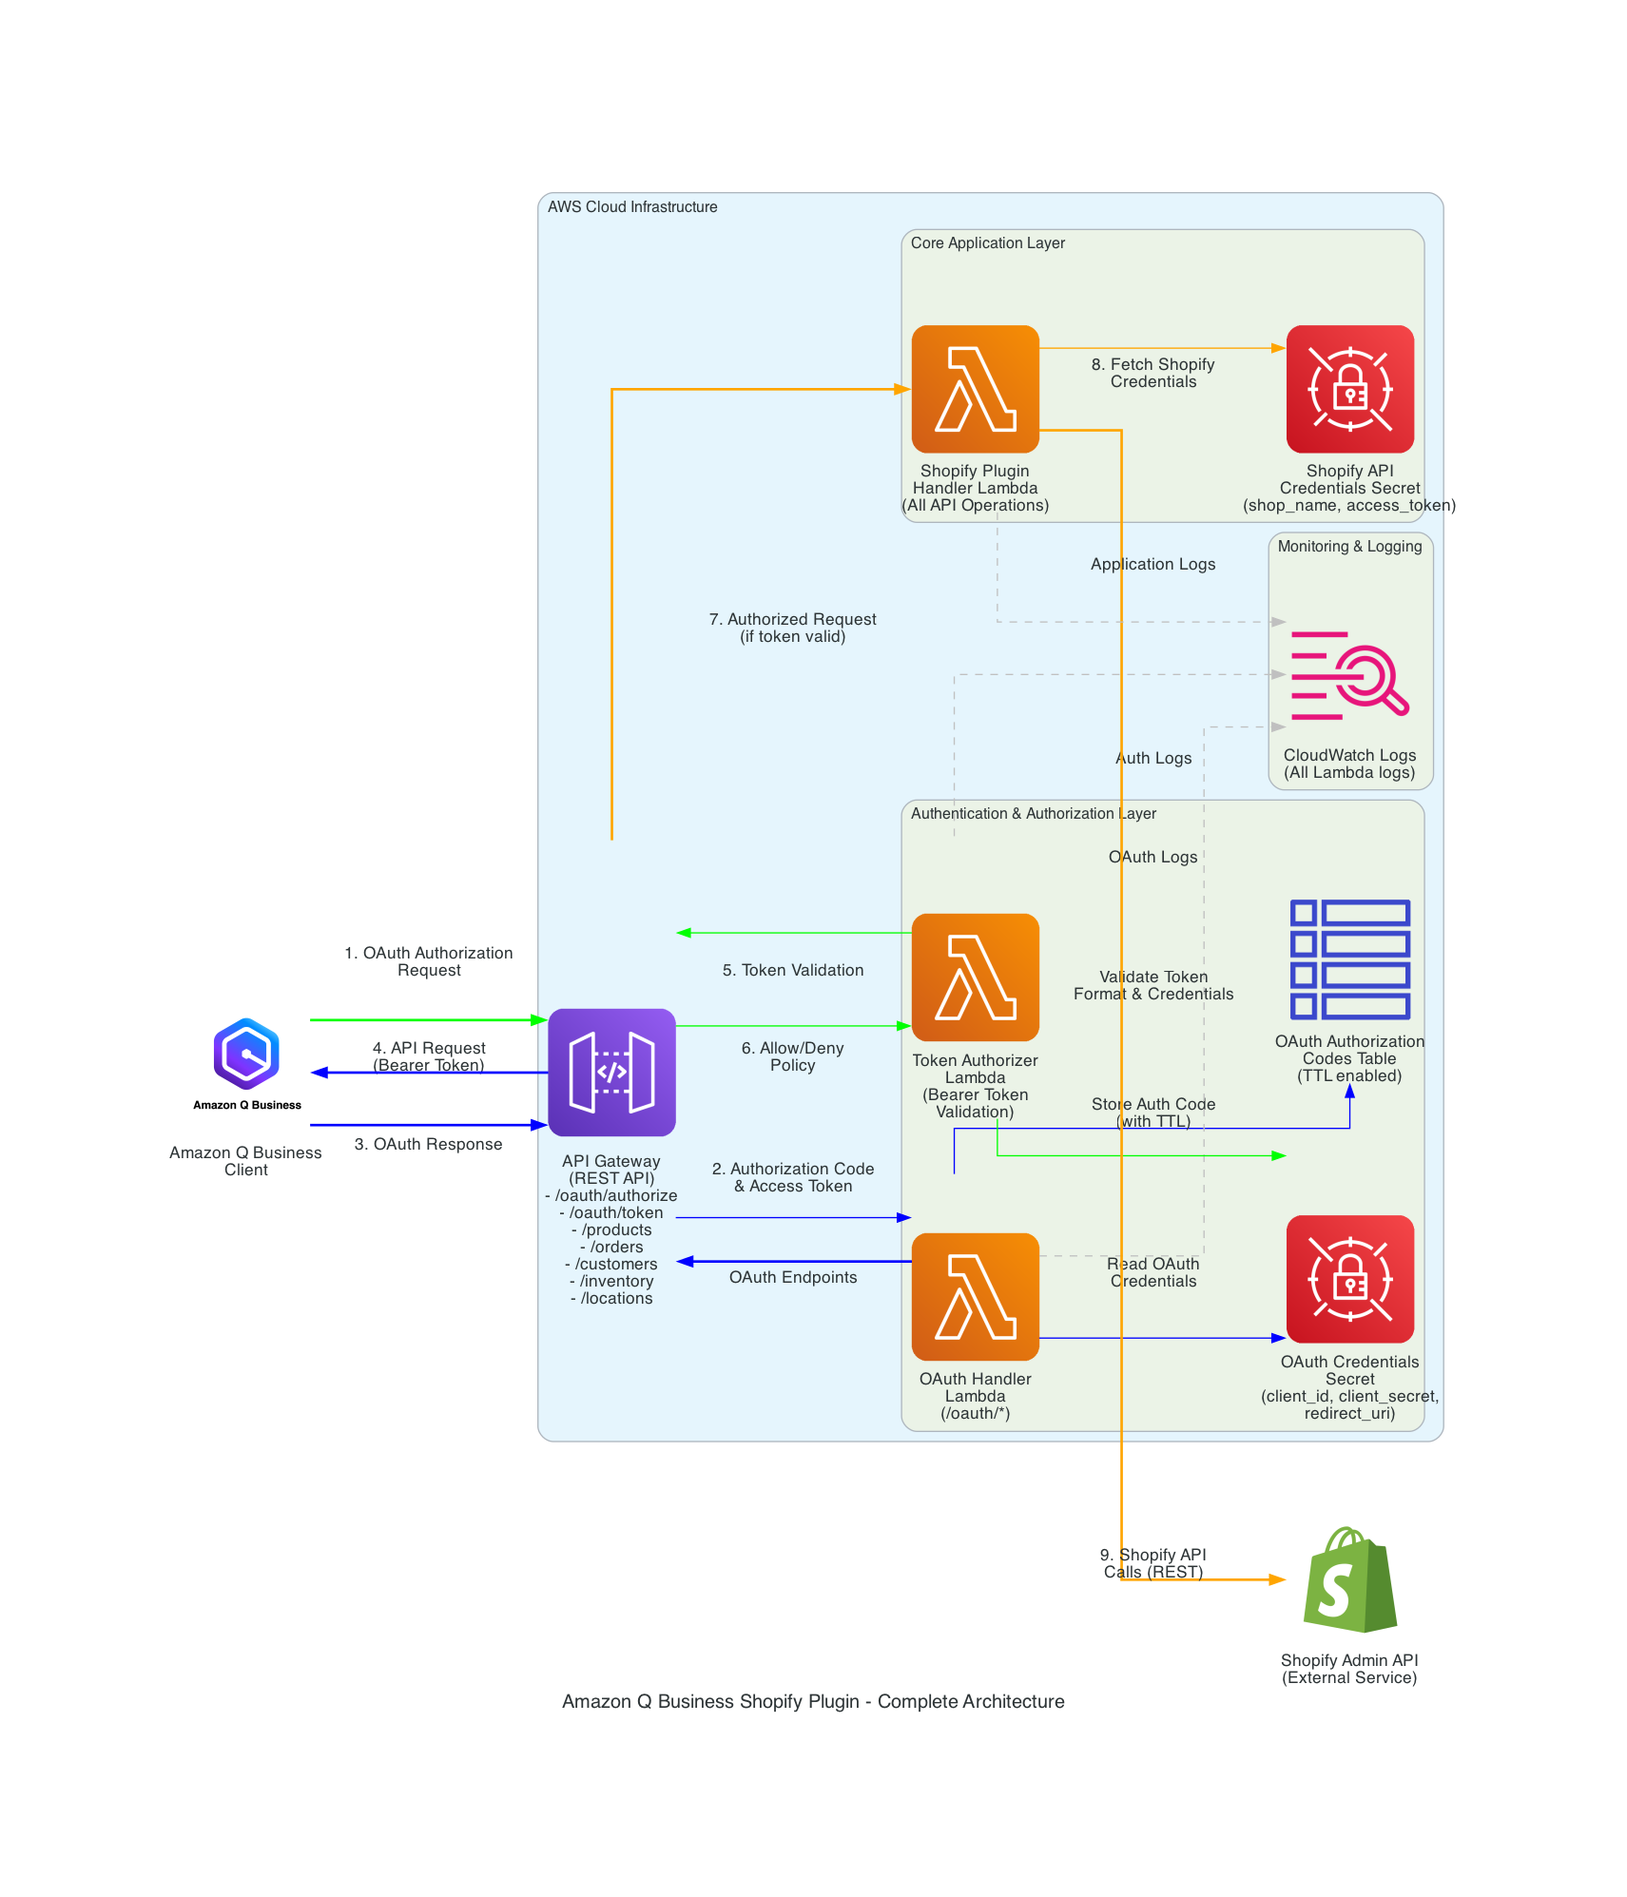
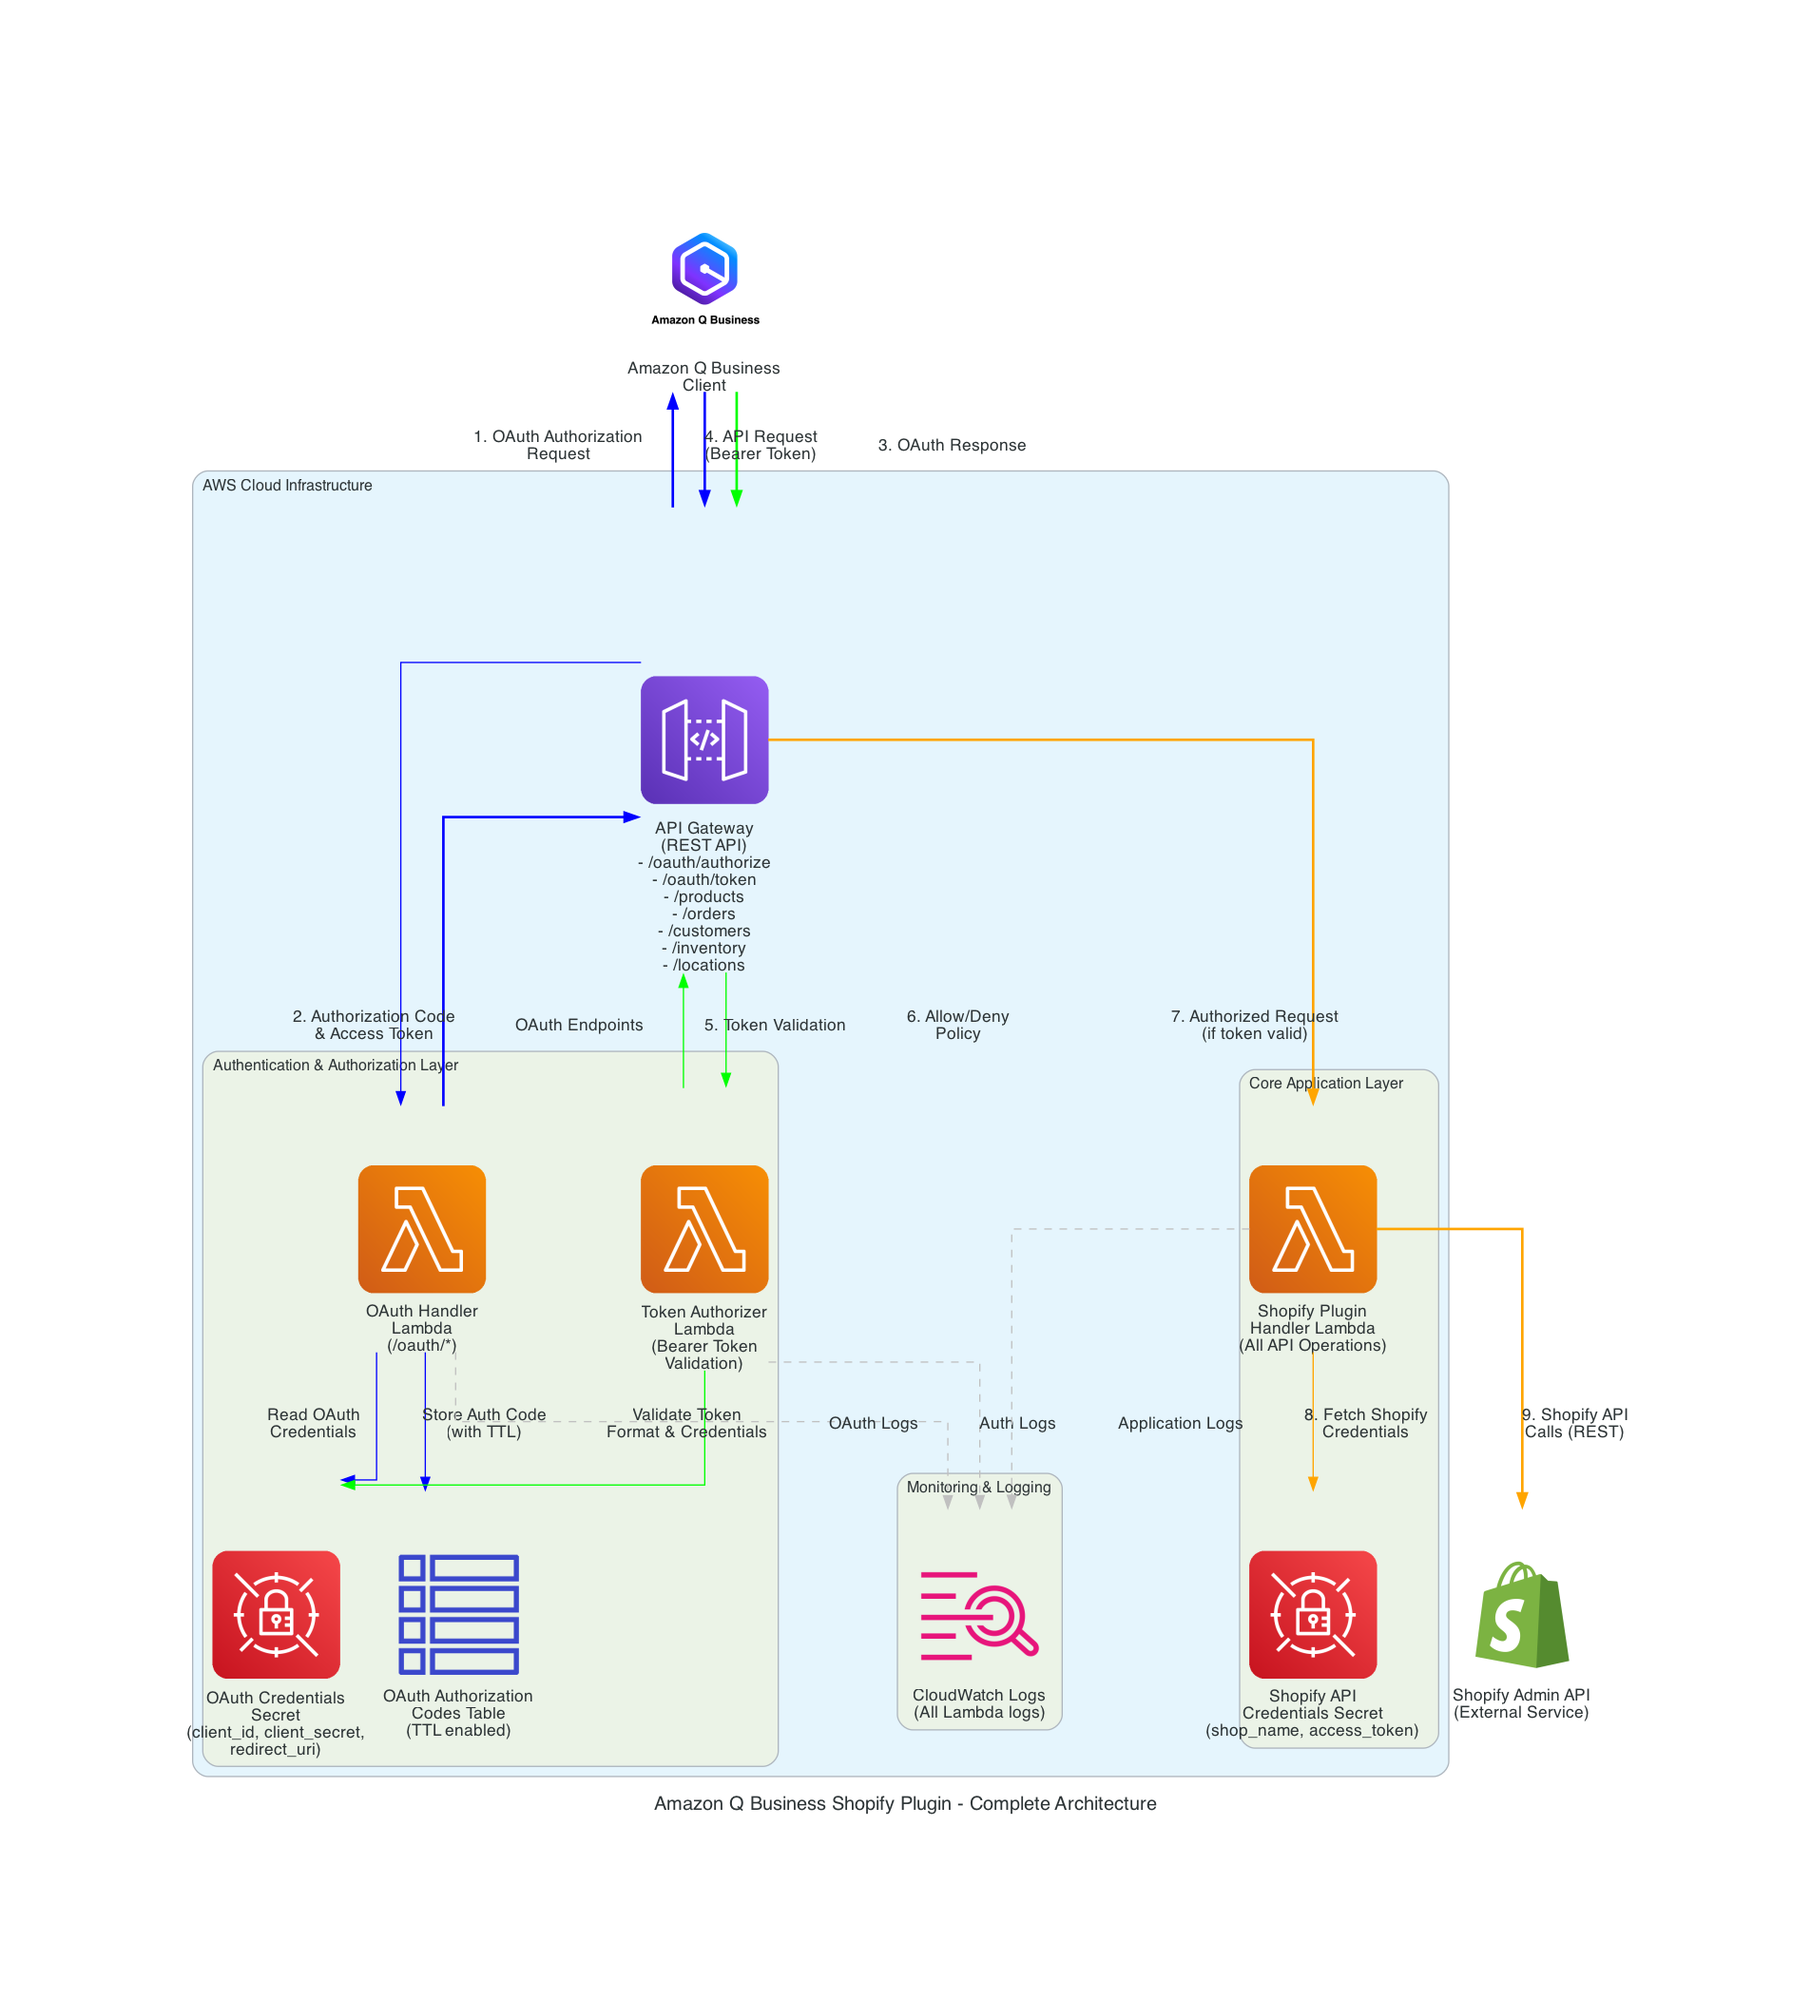
updated diagrams

diff --git a/cdk-shopify/generated-diagrams/generate_diagram.py b/cdk-shopify/generated-diagrams/generate_diagram.py
@@ -25,13 +25,12 @@ from diagrams.custom import Custom
 with Diagram(
     "Amazon Q Business Shopify Plugin - Complete Architecture",
     show=False,
-    direction="LR",
+    direction="TB",
     filename="shopify-plugin-complete-architecture",
     outformat=["png"],
 ):
-    # External components
+    # External components at top
     amazon_q = Custom("Amazon Q Business\nClient", "../assets/amazon-q-icon_gradient_lockup.png")
-    shopify = Custom("Shopify Admin API\n(External Service)", "../assets/shopify.png")
     
     with Cluster("AWS Cloud Infrastructure"):
         # API Gateway
@@ -60,6 +59,9 @@ with Diagram(
         with Cluster("Monitoring & Logging"):
             # CloudWatch Logs
             logs = CloudwatchLogs("CloudWatch Logs\n(All Lambda logs)")
+    
+    # External Shopify at bottom - closer to core application layer
+    shopify = Custom("Shopify Admin API\n(External Service)", "../assets/shopify.png")
     
     # OAuth Flow (Steps 1-3)
     amazon_q >> Edge(label="1. OAuth Authorization\nRequest", color="blue", style="bold") >> api
